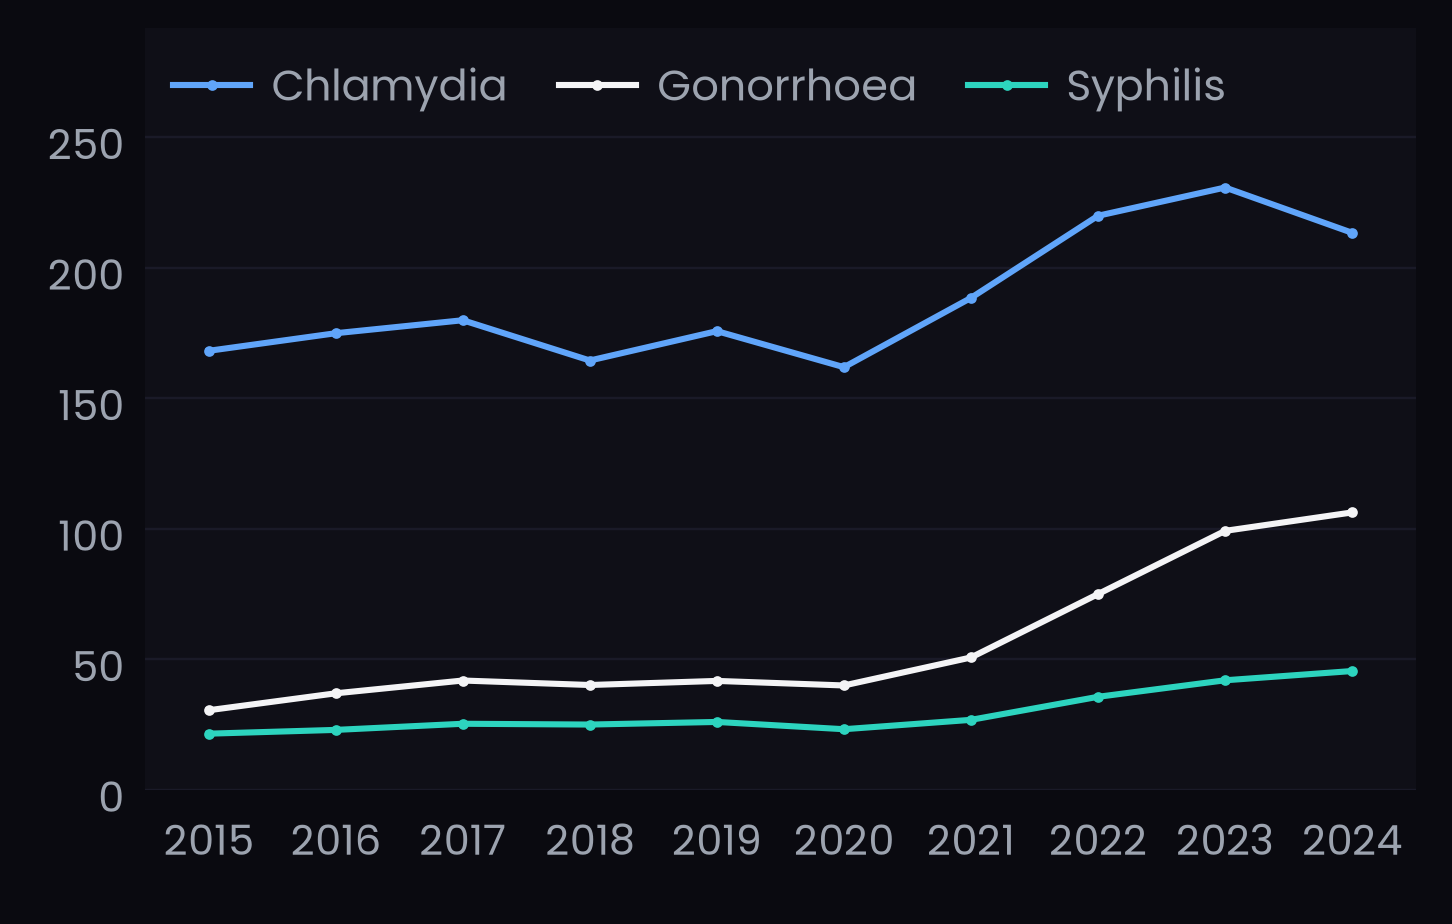
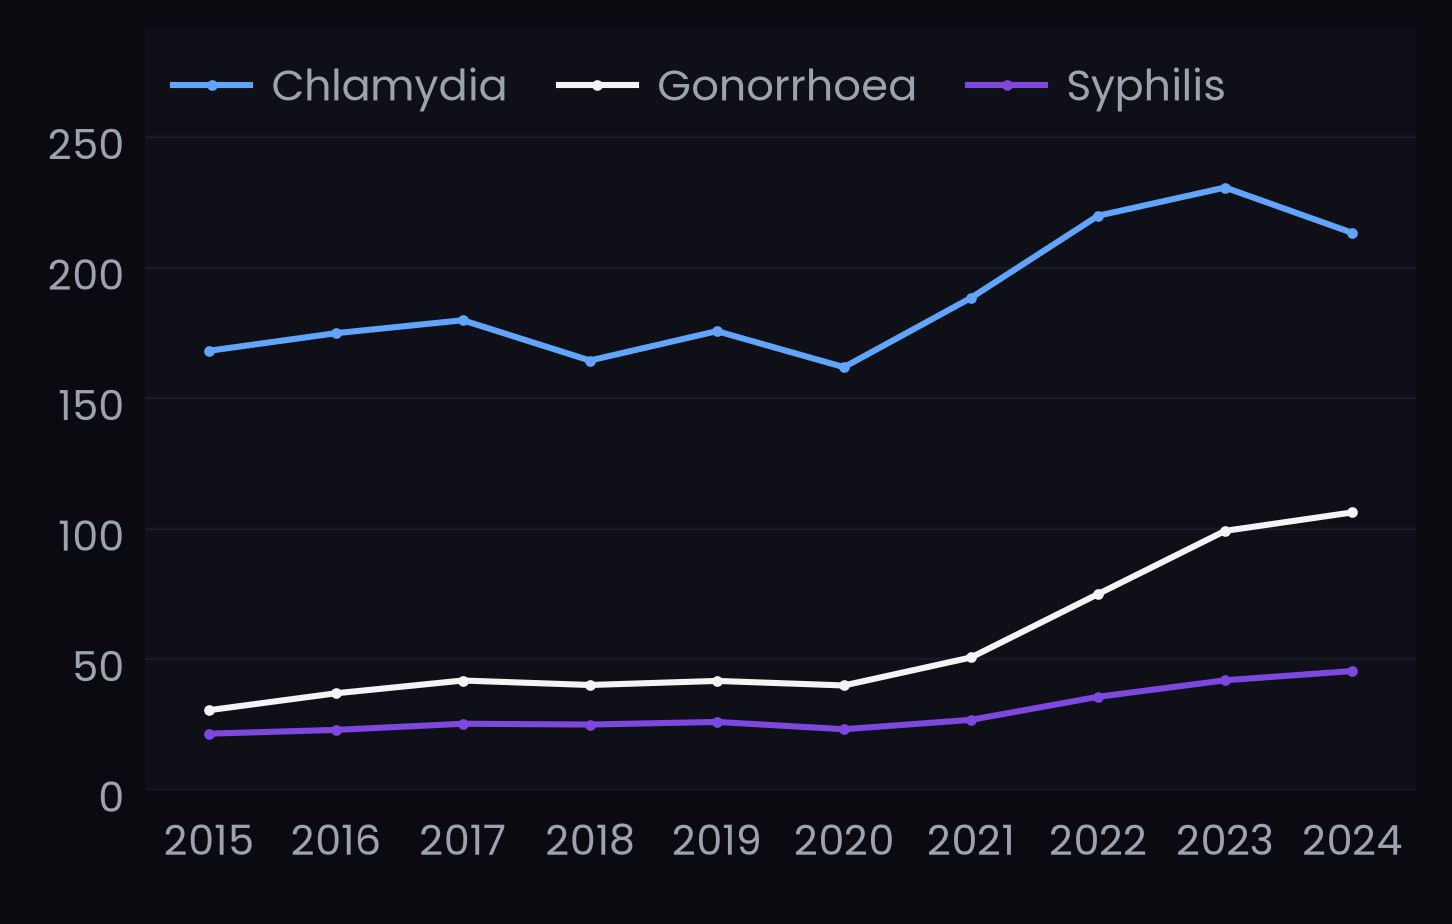
Change teal to purple

Changed region(s): [[0.124, 0.7576, 0.7438, 0.8182], [0.7438, 0.7273, 0.9298, 0.7576], [0.6818, 0.0909, 0.7128, 0.1212]]

diff --git a/data/generate-charts.py b/data/generate-charts.py
@@ -58,6 +58,7 @@ BG2   = '#0f0f17'
 WHITE = '#f4f4f6'
 TEAL  = '#2dd4bf'
 BLUE  = '#60a5fa'
+PURPLE = '#7d47e0'  # logo gradient start ("devil purple")
 GRAY  = '#9ca3af'
 GRID  = '#1a1a28'
 
@@ -136,7 +137,7 @@ chl_gen = load('chl_gen')
 fig, ax = make_fig()
 ax.plot(YEARS, vals(chl_gen), color=BLUE,  marker='o', label='Chlamydia',  **LW)
 ax.plot(YEARS, vals(gon_gen), color=WHITE, marker='o', label='Gonorrhoea', **LW)
-ax.plot(YEARS, vals(syp_gen), color=TEAL,  marker='o', label='Syphilis',   **LW)
+ax.plot(YEARS, vals(syp_gen), color=PURPLE, marker='o', label='Syphilis',   **LW)
 # Headroom above 250 so the legend sits in an empty band — no extra tick,
 # so no gridline under the labels.
 style_ax(ax, ymin=0, ymax=292, yticks=range(0, 251, 50))
@@ -154,7 +155,7 @@ chl_vals  = [chl_msm[y] for y in chl_years]
 fig, ax = make_fig()
 ax.plot(chl_years, chl_vals,      color=BLUE,  marker='o', label='Chlamydia',  **LW)
 ax.plot(YEARS,     vals(gon_msm), color=WHITE, marker='o', label='Gonorrhoea', **LW)
-ax.plot(YEARS,     vals(syp_msm), color=TEAL,  marker='o', label='Syphilis',   **LW)
+ax.plot(YEARS,     vals(syp_msm), color=PURPLE, marker='o', label='Syphilis',   **LW)
 # Unpinned from 0: series sit between ~7 and 33. Headroom above 35 so
 # the legend band has no gridline.
 style_ax(ax, ymin=5, ymax=39.6, yticks=range(5, 36, 5))
